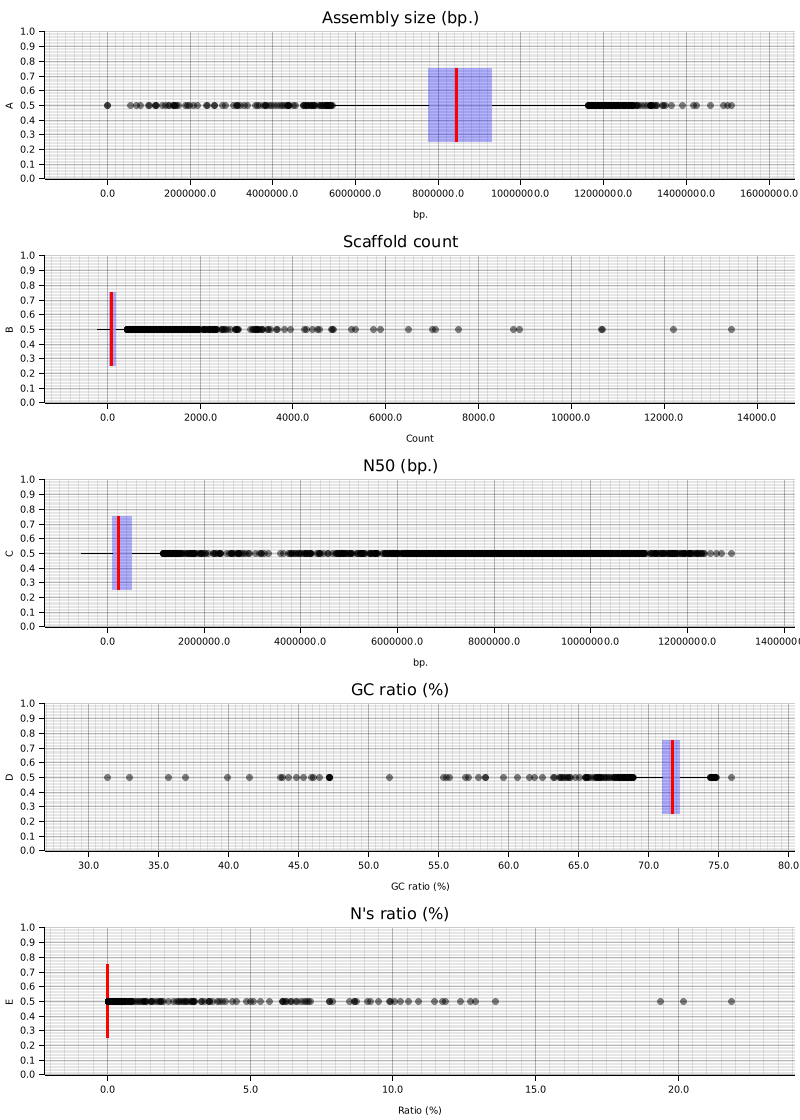
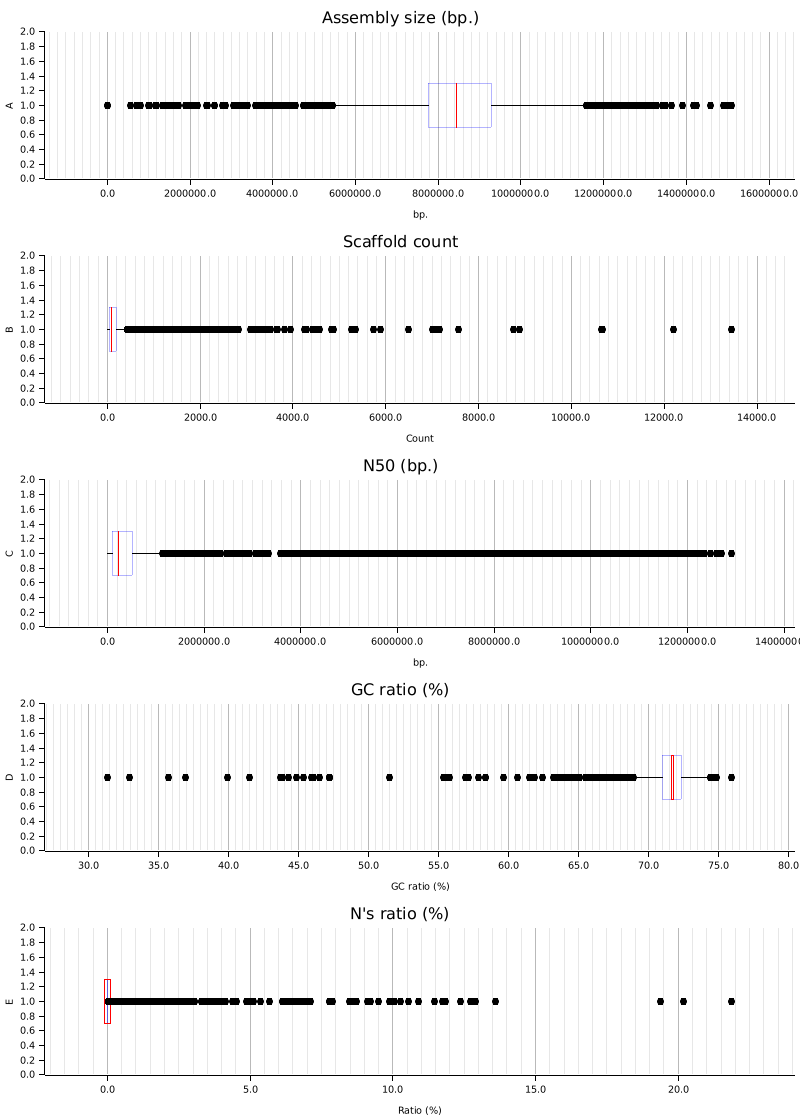
v0.1.3

diff --git a/src/main.rs b/src/main.rs
@@ -8,7 +8,7 @@ use statistical::median;
 struct GenomeStats {
     assembly_length: f64,
     number_of_sequences: f64,
-    #[serde(rename = "n50")]
+    #[serde(rename = "N50")]
     n50: f64,
     #[serde(rename = "GC_percentage")]
     gc_percentage: f64,
@@ -28,11 +28,25 @@ fn create_boxplot<DB: DrawingBackend>(
     let q1_idx = (sorted_data.len() as f64 * 0.25) as usize;
     let q3_idx = (sorted_data.len() as f64 * 0.75) as usize;
     
-    let min = sorted_data[0];
-    let max = sorted_data[sorted_data.len() - 1];
     let q1 = sorted_data[q1_idx];
     let q3 = sorted_data[q3_idx];
     let med = median(&sorted_data);
+    
+    // Calculate IQR and whisker bounds
+    let iqr = q3 - q1;
+    let lower_bound = q1 - 1.5 * iqr;
+    let upper_bound = q3 + 1.5 * iqr;
+    
+    // Find actual whisker ends (last non-outlier points)
+    let whisker_min = sorted_data.iter()
+        .find(|&&x| x >= lower_bound)
+        .copied()
+        .unwrap_or(q1);
+    let whisker_max = sorted_data.iter()
+        .rev()
+        .find(|&&x| x <= upper_bound)
+        .copied()
+        .unwrap_or(q3);
     
     // Draw box
     plot.draw_series(std::iter::once(Rectangle::new(
@@ -48,13 +62,22 @@ fn create_boxplot<DB: DrawingBackend>(
     
     // Draw whiskers
     plot.draw_series(std::iter::once(PathElement::new(
-        vec![(min, y_position), (q1, y_position)],
+        vec![(whisker_min, y_position), (q1, y_position)],
         BLACK,
     )))?;
     plot.draw_series(std::iter::once(PathElement::new(
-        vec![(q3, y_position), (max, y_position)],
+        vec![(q3, y_position), (whisker_max, y_position)],
         BLACK,
     )))?;
+    
+    // Draw outlier points
+    let outliers: Vec<_> = data.iter()
+        .filter(|&&x| x < lower_bound || x > upper_bound)
+        .collect();
+    
+    plot.draw_series(outliers.iter().map(|&&x| {
+        Circle::new((x, y_position), 3, BLACK.filled())
+    }))?;
     
     Ok(())
 }
